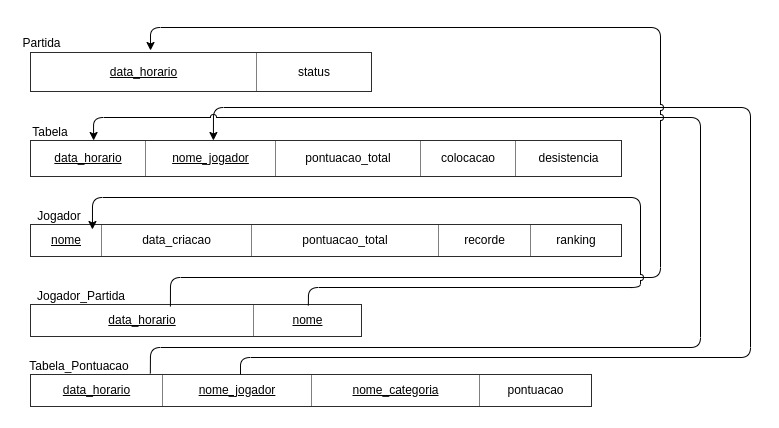
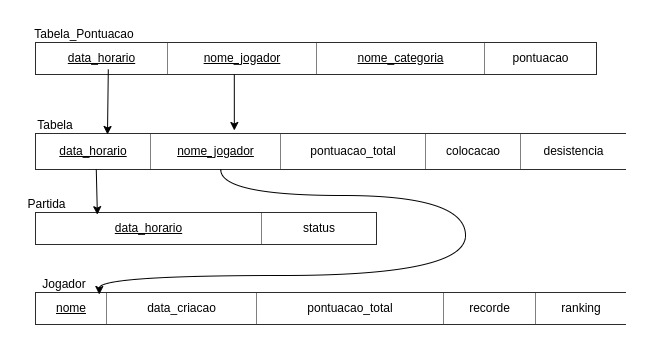
removida relação jogador_partida

diff --git a/funcionalidades/banco_de_dados.py b/funcionalidades/banco_de_dados.py
@@ -52,18 +52,6 @@ tabelas['Jogador'] = (
         """
         )
 
-tabelas['Jogador_Partida'] = (
-        """
-        create table Jogador_Partida(
-            data_horario datetime,
-            nome varchar(255) not null,
-            primary key (data_horario, nome),
-            foreign key (data_horario) references Partida(data_horario),
-            foreign key (nome) references Jogador(nome)
-        )
-        """
-        )
-
 tabelas['Tabela'] = (
         """
         create table Tabela (
